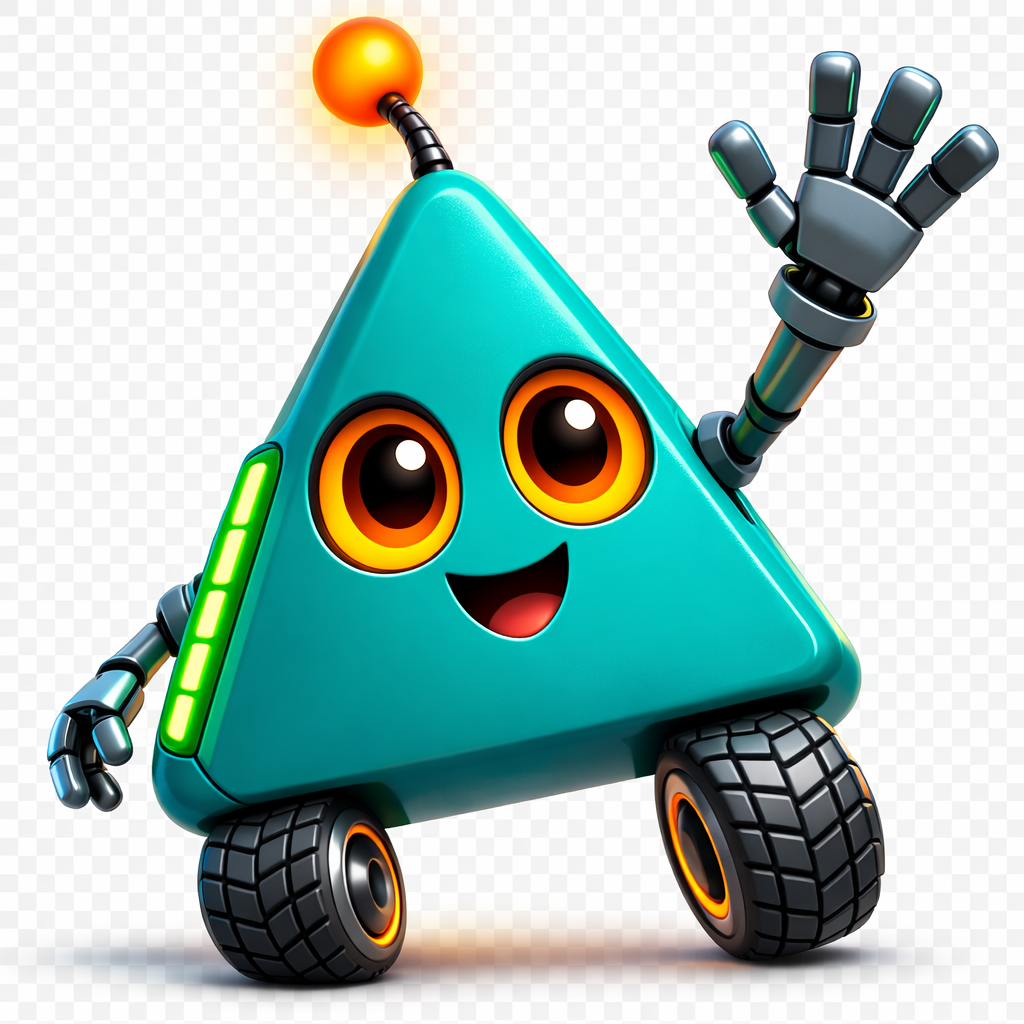
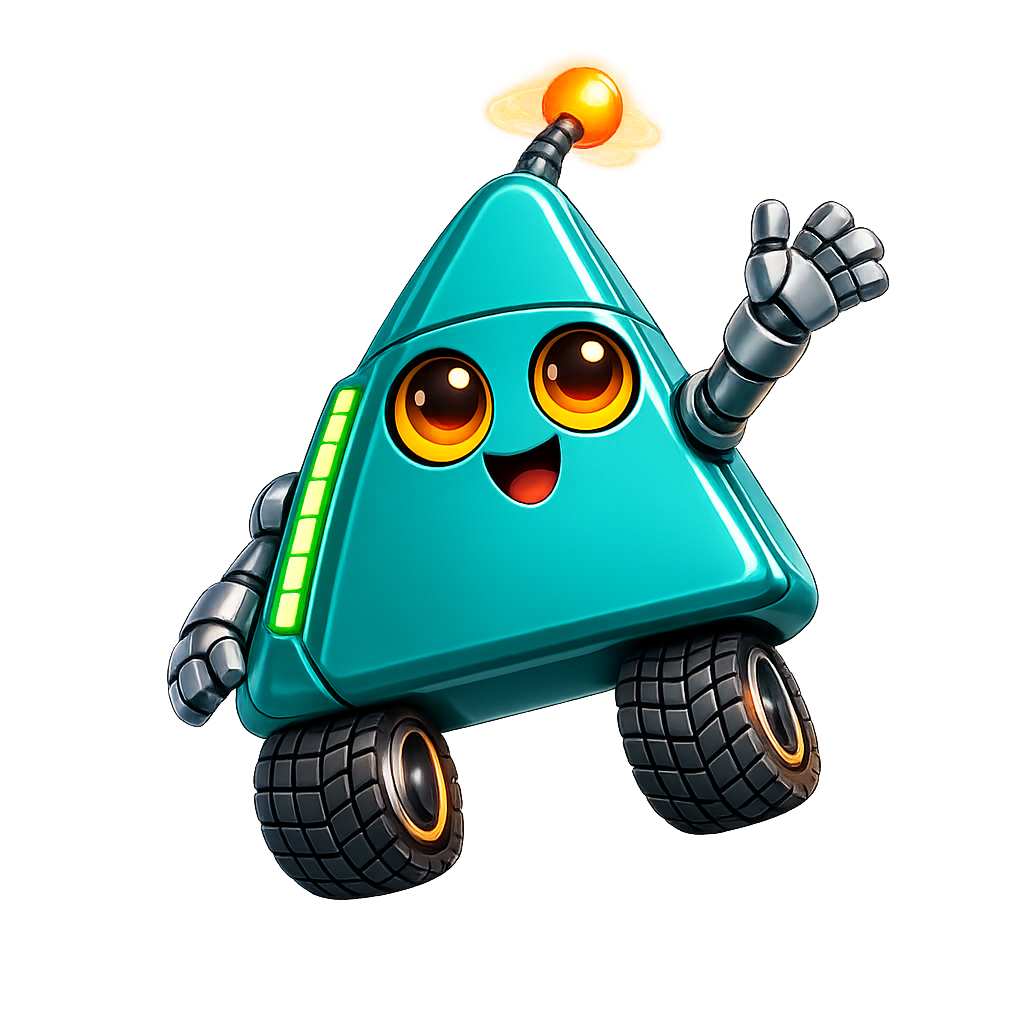
mascot updates

diff --git a/docs/img/mascot/image-prompts.md b/docs/img/mascot/image-prompts.md
@@ -9,6 +9,9 @@ Format: **PNG with transparent background**.
 
 ## Base Character Description
 
+!!! Note
+    We have removed the backpack from all the prompts.  It was distracting.
+
 Copy this base into every prompt below:
 
 ```
@@ -39,8 +42,6 @@ each side — thin metallic appendages with small grabber claws. At the very
 top of the apex, a thin flexible antenna with a small glowing orange ball
 at the tip wobbles playfully.
 
-Next to Delta is a small backpack labeled "integral journal" where she stores
-accumulated data.
 ```
 
 ---
@@ -82,8 +83,7 @@ Delta stands upright on a flat surface in a relaxed, neutral pose,
 facing the viewer directly with a calm, friendly expression — her orange LED
 eyes glow softly with a gentle look. Her measuring arms are folded neatly
 against her sides, and her slope indicator strip glows a steady green. The
-antenna wobbles slightly. Her wheels are still. The integral journal backpack
-sits beside her. The pose is balanced and unassuming, suitable as a
+antenna wobbles slightly. Her wheels are still. The pose is balanced and unassuming, suitable as a
 general-purpose illustration.
 ```
 
@@ -94,13 +94,17 @@ general-purpose illustration.
 For chapter openings and introductions.
 
 ```
-[BASE] Delta waves one measuring arm cheerfully at the viewer with a big,
+Please generate a new image called "Welcome".
+The format is a 512x512 fully transparent png image.
+Do not use a white checkered background.
+Delta waves one measuring arm cheerfully at the viewer with a big,
 warm expression — her orange LED eyes are wide and bright with excitement.
-Her other arm holds the integral journal backpack. The slope indicator strip
+The slope indicator strip
 pulses a bright welcoming green. Her antenna tip glows brightly and bounces
 with enthusiasm. She is slightly tilted forward (about 5 degrees) as if
 rolling toward the viewer to greet them. The pose radiates "welcome, let's
 explore this curve together!" energy.
+Do not place any text in this image.
 ```
 
 ---
@@ -205,7 +209,6 @@ After generating all seven images, verify:
 - [ ] Consistent art style across all seven poses
 - [ ] Delta looks like the same character in each pose
 - [ ] Teal body, orange LED eyes, and green slope indicator are visible in each
-- [ ] The integral journal backpack is present in each
 - [ ] File names match exactly: `neutral.png`, `welcome.png`, `thinking.png`,
       `tip.png`, `warning.png`, `celebration.png`, `encouraging.png`
 - [ ] Each file is **under 100KB** (resize/compress if needed)

diff --git a/docs/chapters/01-foundations-of-calculus/index.md b/docs/chapters/01-foundations-of-calculus/index.md
@@ -1,7 +1,7 @@
 # Foundations of Calculus
 
 ## Meet Your Guide
-![](../../img/delta-v1.png)
+
 <details>
 <summary>Image Description</summary>
 Please generate a high resolution wide-landscape, professional textbook illustration with a 16:9 width:height ratio
@@ -34,7 +34,7 @@ an educational textbook. Clean, professional, and appealing to high school stude
 
 </details>
 
-!!! quote "Delta Says"
+!!! quote "Welcome"
     "Hey there! I'm Delta—a curious little triangular robot who *lives* for exploring
     mathematical landscapes. See this shape I'm rocking? It's not just for looks.
     The Greek letter delta (Δ) means *change*, and that's basically my whole personality.
